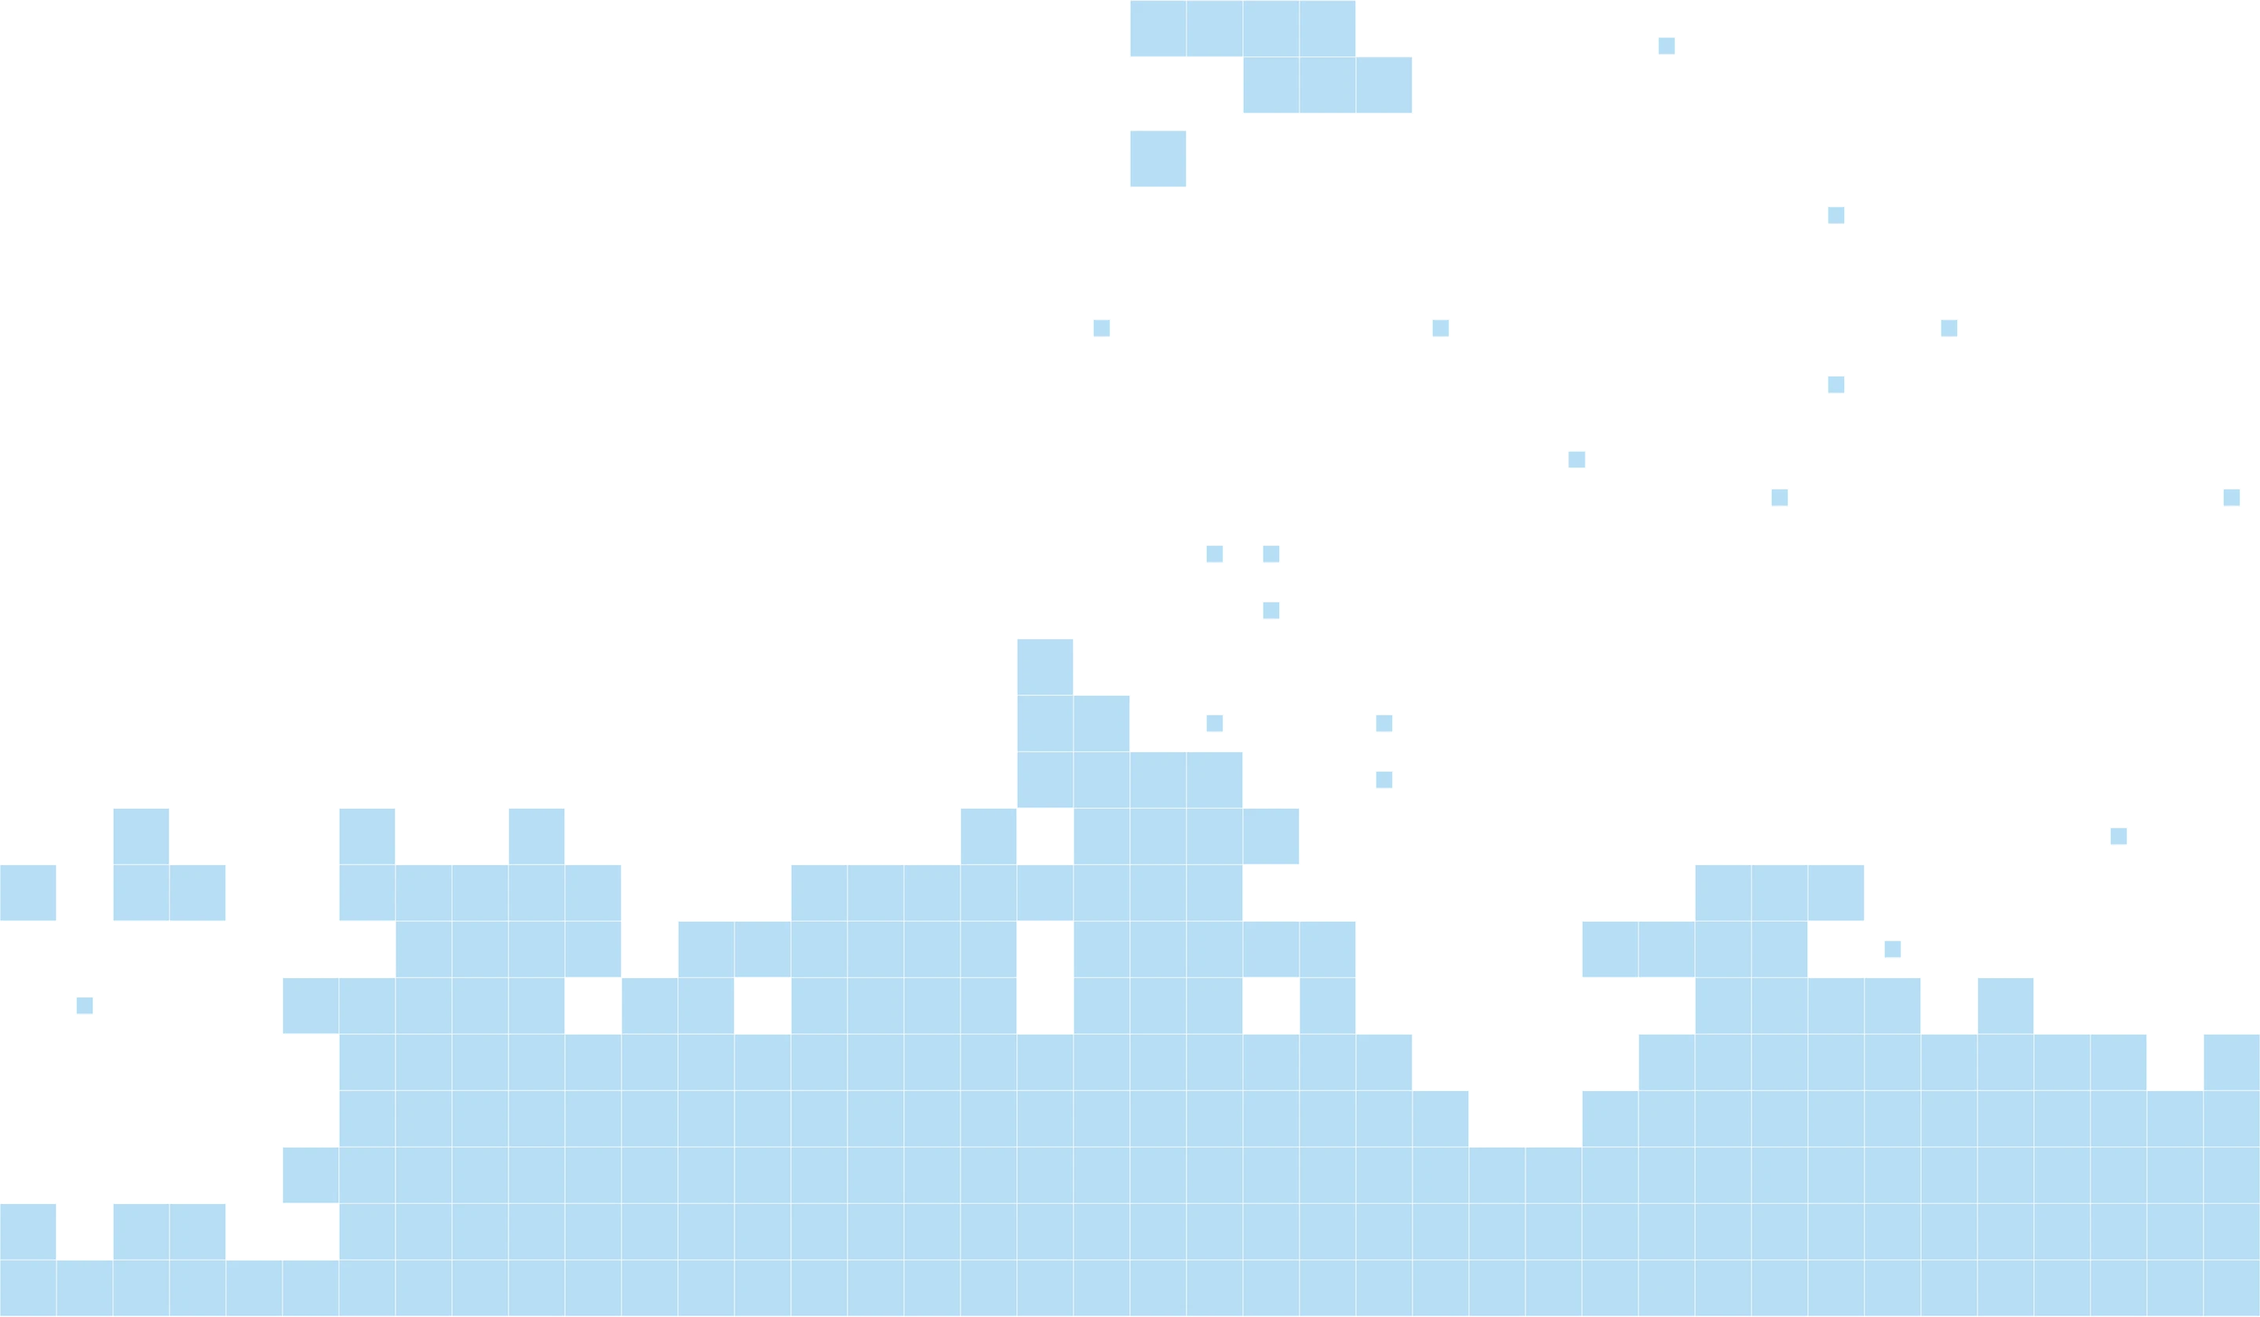
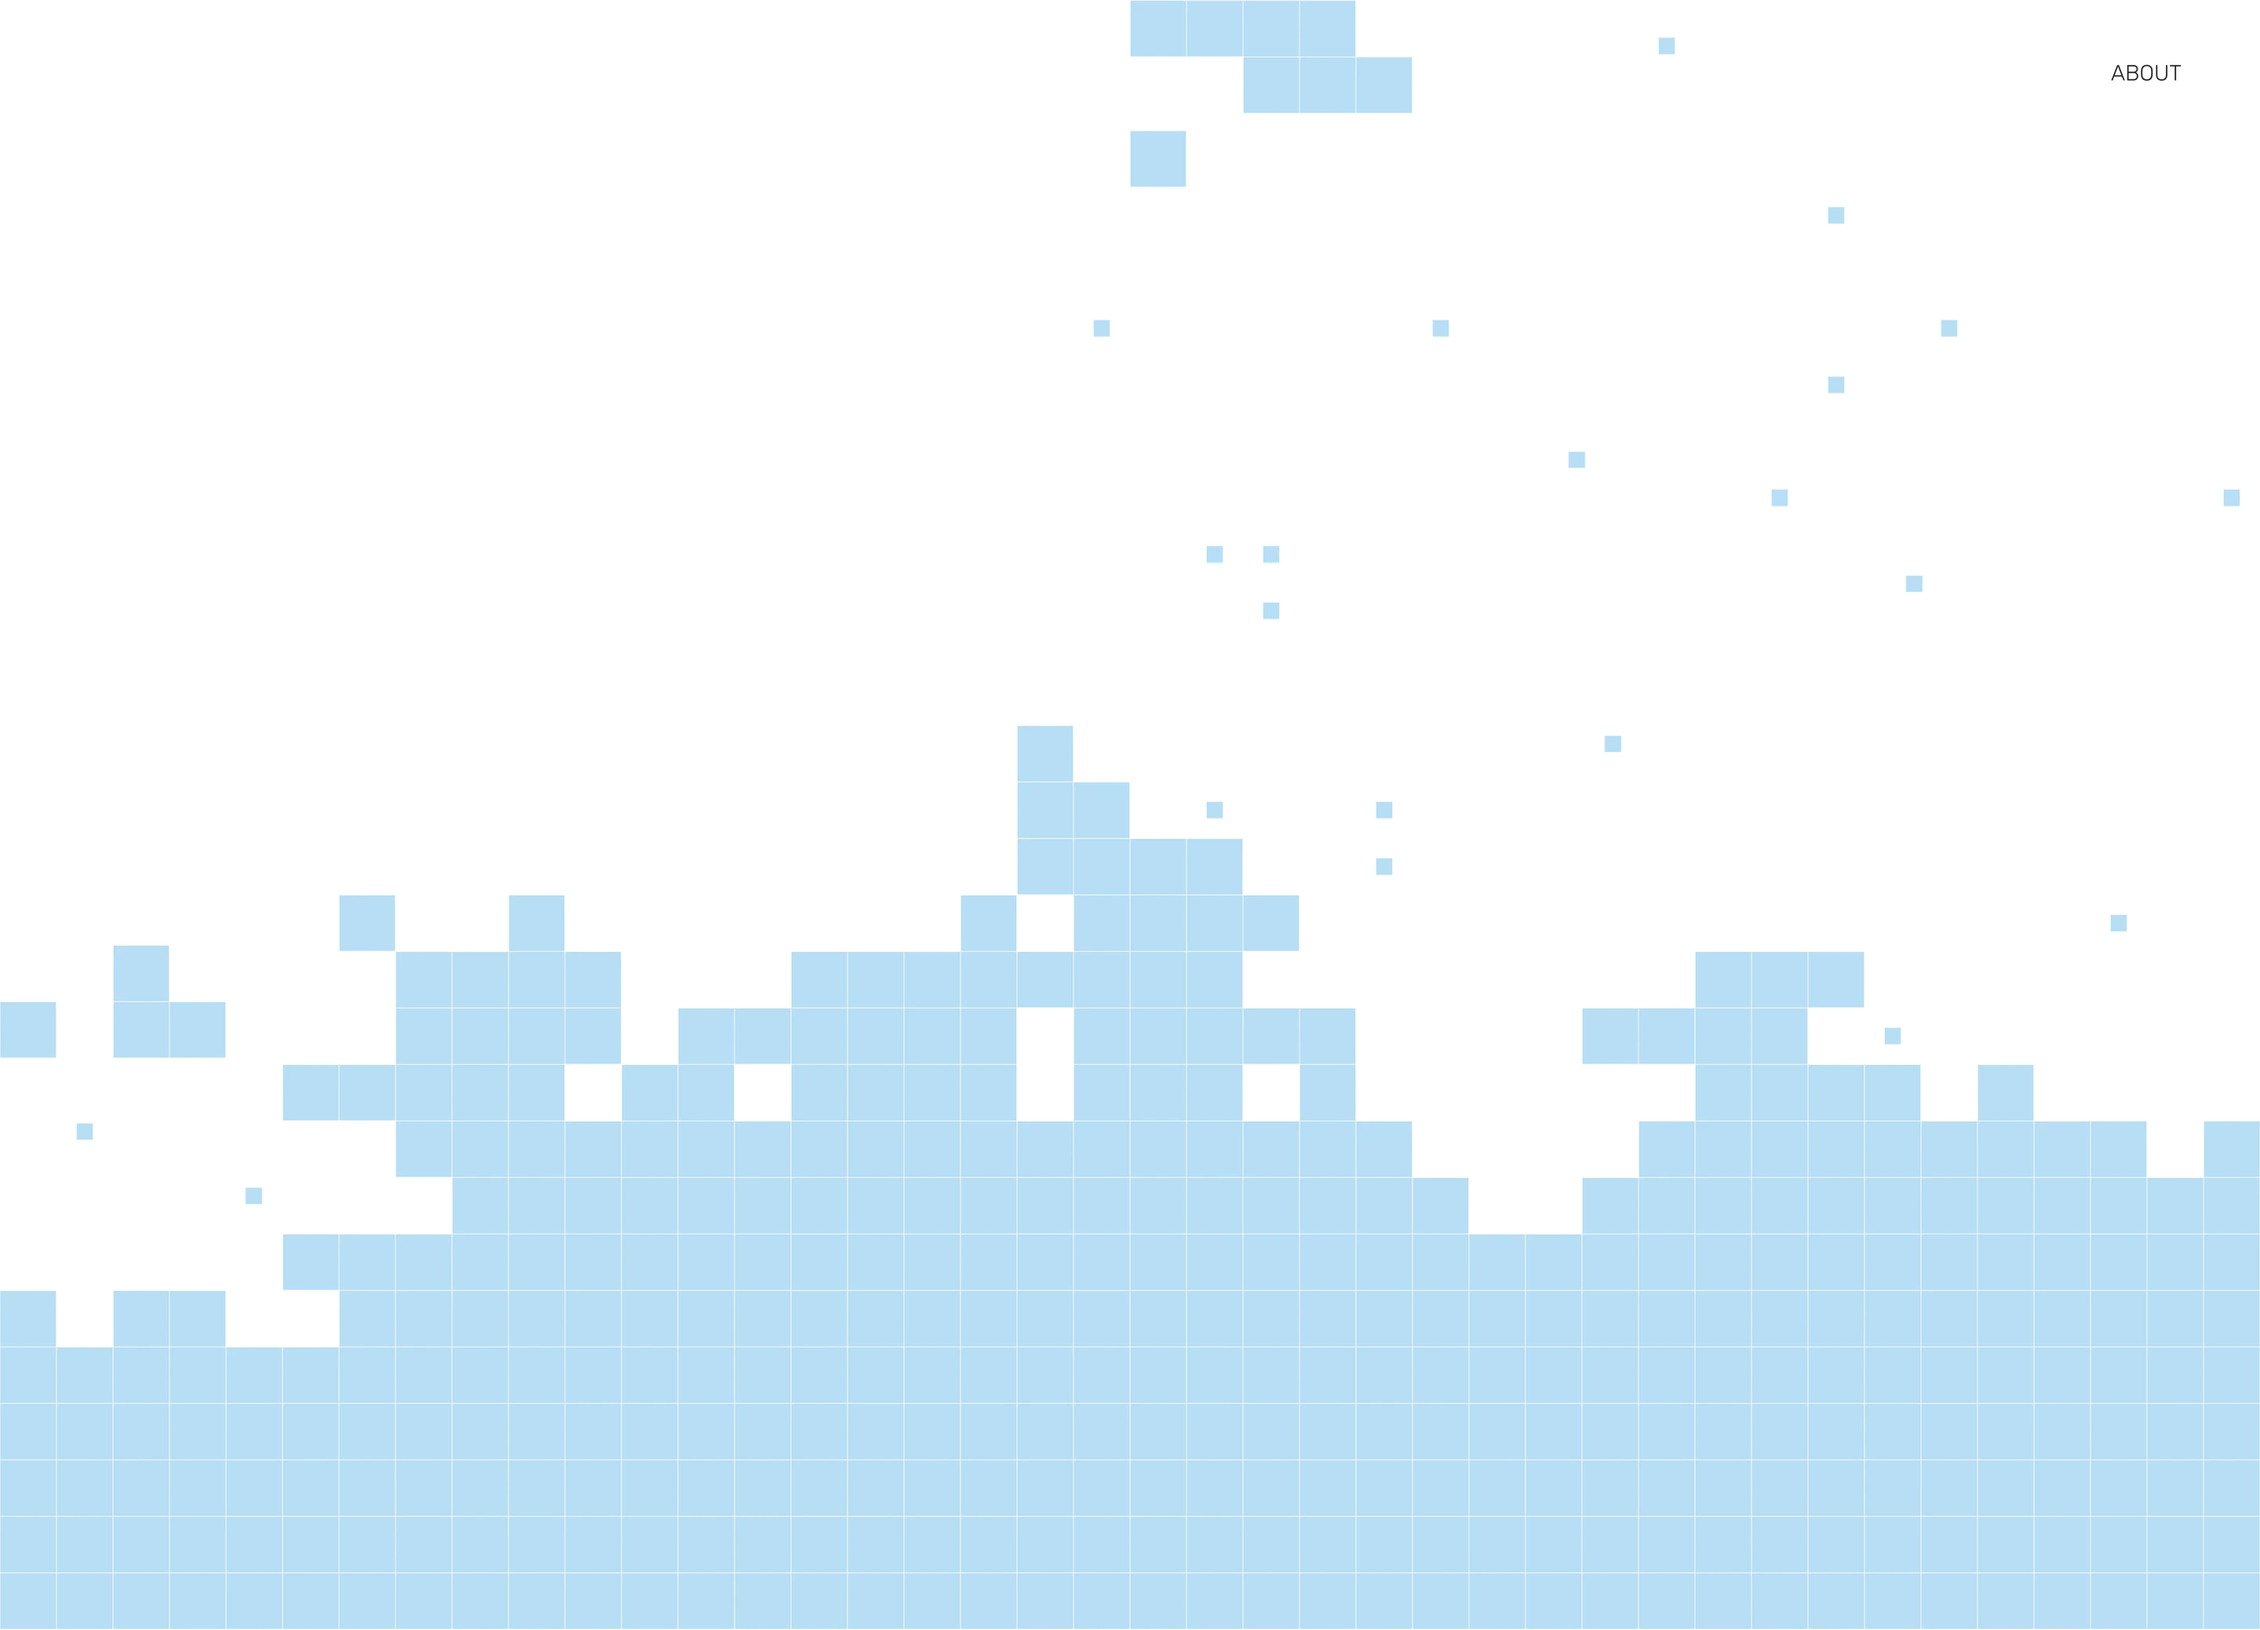
Redesign PROJECTS/WRITINGS layout from Figma SVG, fix broken 404 illustration, update hero background
Rebuilds the homepage PROJECTS and WRITINGS sections from the exact
vector data in the new Figma export: horizontal project rows (art +
title + summary + tags, vertically centered, 24px/48px spacing) and
flat placeholder blocks for WRITINGS. Also fixes a real bug: writing-1.svg
only contained one small icon fragment (a Figma single-node export), so
the "404/Sorry" illustration was rendering as blank on the writing detail
page; replaced it with an accurate crop taken directly from the SVG
render, used both for the new project card art and the writing page
cover. Updates hero height to 840px and swaps in the new
yellowgradient/gridpattern source images (converted to WebP again).

Claude-Session: https://claude.ai/code/session_01MiUNxA69bw1mKfBDzVv4Er

diff --git a/index.html b/index.html
@@ -29,7 +29,7 @@
   .hero{
     position:relative;
     width:100%;
-    height:758px;
+    height:840px;
     overflow:hidden;
     display:flex;
     align-items:center;
@@ -90,15 +90,74 @@
     padding:0 var(--margin);
   }
   .section-label{
-    font-weight:600;
-    font-size:24px;
-    color:var(--blue);
-    margin:0 0 32px 0;
-    padding-top:64px;
+    font-family:'Inter', sans-serif;
+    font-weight:400;
+    font-size:48px;
+    color:var(--ink);
+    text-transform:uppercase;
+    margin:0 0 56px 0;
+    padding-top:112px;
   }
-  /* 12-column grid: 72px margins (on the section), 20px gutter.
-     At the 1440px design width this yields a column of ~89.67px,
-     so a 4-column-span thumbnail = 418px, matching the 418x266 covers. */
+
+  /* ---------- PROJECT ROWS ---------- */
+  .project-list{
+    display:flex;
+    flex-direction:column;
+    gap:55px;
+    padding-bottom:80px;
+  }
+  a.project-row{
+    display:flex;
+    align-items:center;
+    gap:var(--gutter);
+    text-decoration:none;
+    color:inherit;
+  }
+  .project-art{
+    flex:0 0 418px;
+    aspect-ratio:418/278;
+    overflow:hidden;
+  }
+  .project-art img{
+    display:block;
+    width:100%;
+    height:100%;
+    object-fit:cover;
+  }
+  .project-info{
+    flex:1;
+  }
+  .project-title{
+    font-weight:600;
+    font-size:22px;
+    line-height:1.3;
+    color:#000;
+    margin:0 0 24px 0;
+  }
+  .project-summary{
+    font-weight:300;
+    font-size:15px;
+    line-height:1.5;
+    color:#6b6b6b;
+    margin:0 0 48px 0;
+    max-width:520px;
+  }
+  .tags{
+    display:flex;
+    gap:12px;
+    flex-wrap:wrap;
+  }
+  .tag{
+    border:1px solid var(--blue);
+    border-radius:4px;
+    padding:8px 12px;
+    font-weight:300;
+    font-size:12px;
+    color:#4c4c4c;
+  }
+  .tag--dark{ border-color:#414141; }
+
+  /* ---------- WRITING CARDS ---------- */
   .cards{
     display:grid;
     grid-template-columns:repeat(var(--columns), 1fr);
@@ -116,49 +175,27 @@
   .card figure{
     margin:0 0 17px 0;
   }
-  .card img.cover{
-    width:100%;
-    aspect-ratio: 418 / 266;
-    height:auto;
-    object-fit:cover;
-    display:block;
-    background:var(--grey);
-  }
   .card p.caption{
     font-weight:300;
     font-size:16px;
     line-height:22px;
     margin:0 0 11px 0;
   }
-  .tags{
-    display:flex;
-    gap:12px;
-    flex-wrap:wrap;
-  }
-  .tag{
-    border:1px solid var(--blue);
-    border-radius:8px;
-    padding:8px;
-    font-weight:300;
-    font-size:12px;
-    color:#4c4c4c;
-  }
-
-  /* ---------- WRITING COVERS ---------- */
   .writing-cover{
     width:100%;
-    aspect-ratio: 418 / 266;
-    height:auto;
+    aspect-ratio: 418 / 278;
     display:block;
-    object-fit:cover;
-    background:#000;
+    background:#7D799D;
   }
 
   @media (max-width:900px){
-    .hero{height:520px;}
+    .hero{height:600px;}
     .hero h1{font-size:34px;line-height:44px;}
     section, .hero-content{padding:0 24px;}
     .hero-nav{right:24px;}
+    .section-label{font-size:32px;padding-top:72px;margin-bottom:32px;}
+    a.project-row{flex-direction:column;}
+    .project-art{flex-basis:auto;width:100%;}
     .card{grid-column: span 12;}
   }
 </style>
@@ -174,44 +211,50 @@
   </div>
 
   <section>
-    <p class="section-label">PROJECT</p>
-    <div class="cards">
-      <a class="card" href="tb-screening-camp.html">
-        <figure>
-          <img class="cover" src="https://placehold.co/418x266/d0d0d0/d0d0d0" alt="" />
-        </figure>
-        <p class="caption">Redesigning the TB Screening Camp Deployment and Setup Experience</p>
-        <div class="tags">
-          <span class="tag">System Design</span>
-          <span class="tag">Product Design</span>
-          <span class="tag">Design Research</span>
+    <p class="section-label">PROJECTS</p>
+    <div class="project-list">
+      <a class="project-row" href="tb-screening-camp.html">
+        <div class="project-art" style="background:#4E3ED8;">
+          <img src="images/project-art-hands.png" alt="Two hands pointing at each other illustration on a purple background" />
+        </div>
+        <div class="project-info">
+          <p class="project-title">Redesigning the TB Screening Camp Deployment and Setup Experience</p>
+          <p class="project-summary">This is the section for quick summary, 2 liner to give overview of this project and hold users attention which encourages them to click. should help in decision making.</p>
+          <div class="tags">
+            <span class="tag">System Design</span>
+            <span class="tag">Product Design</span>
+            <span class="tag">Design Research</span>
+          </div>
         </div>
       </a>
-      <a class="card" href="onprem-support-experience.html">
-        <figure>
-          <img class="cover" src="https://placehold.co/418x266/d0d0d0/d0d0d0" alt="" />
-        </figure>
-        <p class="caption">Designing support experience for onprem systems with no reliable internet</p>
-        <div class="tags">
-          <span class="tag">UX Design</span>
-          <span class="tag">Product Design</span>
+      <a class="project-row" href="onprem-support-experience.html">
+        <div class="project-art" style="background:#000;">
+          <img src="images/project-art-404.png" alt="Sorry, I don't have that information / 404 Oops illustration on a black background" />
+        </div>
+        <div class="project-info">
+          <p class="project-title">Designing support experience for onprem systems with no reliable internet</p>
+          <p class="project-summary">This is the section for quick summary, 2 liner to give overview of this project and hold users attention which encourages them to click. should help in decision making.</p>
+          <div class="tags">
+            <span class="tag tag--dark">UX Design</span>
+            <span class="tag tag--dark">Product Design</span>
+          </div>
         </div>
       </a>
     </div>
   </section>
 
   <section>
-    <p class="section-label">WRITING</p>
+    <p class="section-label">WRITINGS</p>
     <div class="cards">
       <a class="card" href="design-beyond-interface.html">
         <figure>
-          <img class="writing-cover" src="images/writing-1.svg" alt="404 error illustration" style="background:#000;" />
+          <div class="writing-cover"></div>
         </figure>
         <p class="caption">Design beyond the interface: Blending human and digital touchpoints</p>
       </a>
       <a class="card" href="redesign-or-training.html">
         <figure>
-          <img class="writing-cover" src="images/writing-2.png" alt="Two hands pointing at each other illustration" style="background:#4e3ed8;" />
+          <div class="writing-cover"></div>
         </figure>
         <p class="caption">How to know if the product needs a redesign or just better training?</p>
       </a>

diff --git a/design-beyond-interface.html b/design-beyond-interface.html
@@ -107,7 +107,7 @@
   <div class="top-nav"><a href="index.html">← Harshita Bhargava</a></div>
 
   <div class="cover">
-    <img src="images/writing-1.svg" alt="Illustration of two support chatbots — one apologizing it can't find information, the other showing a 404 error" />
+    <img src="images/writing-1-cover.png" alt="Illustration of two support chatbots — one apologizing it can't find information, the other showing a 404 error" />
   </div>
 
   <header class="page-head">
